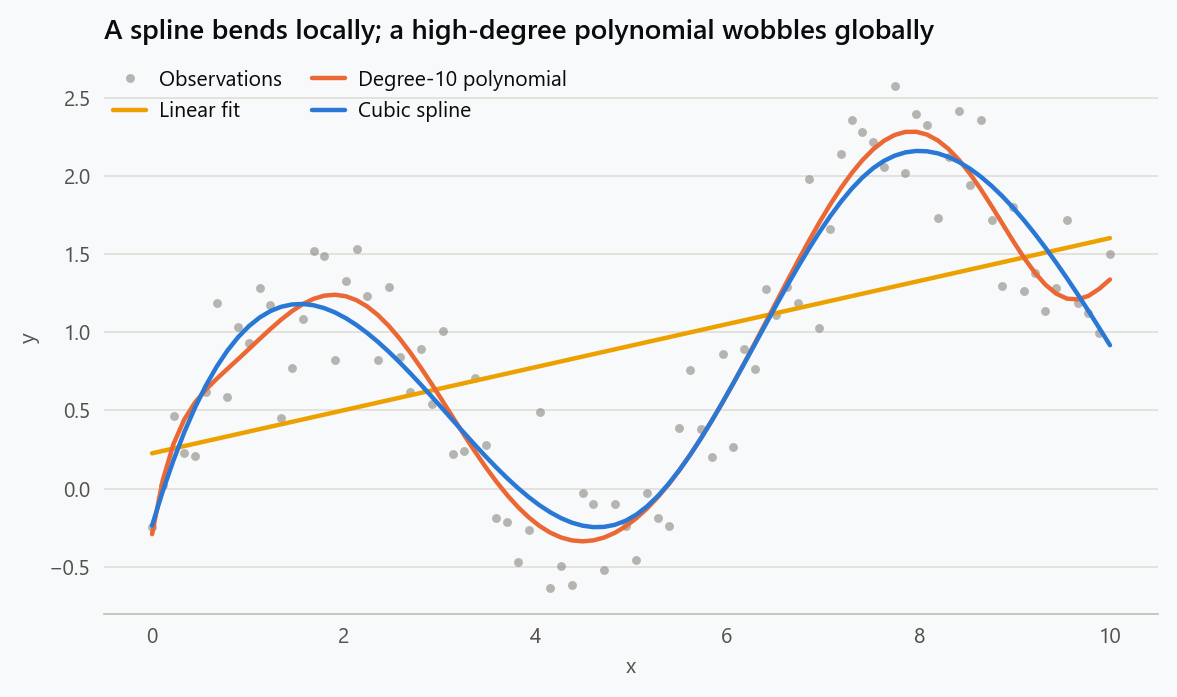
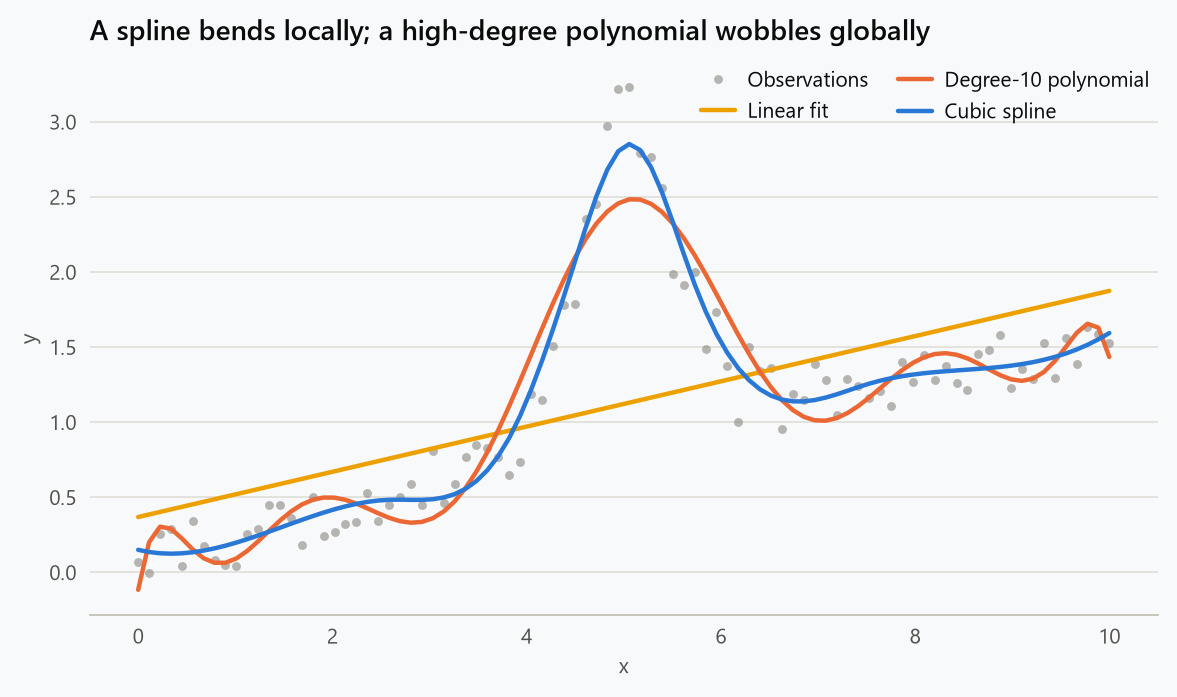
Splines: use data where the polynomial wobbles

diff --git a/_posts/data_science/2019-12-29-understanding_splines_what_they_how_they_used_data_analysis.md b/_posts/data_science/2019-12-29-understanding_splines_what_they_how_they_used_data_analysis.md
@@ -50,7 +50,7 @@ If you've ever dealt with data that doesn’t follow a simple straight line but 
 - **The different types of splines**
 - **Practical uses of splines in regression, smoothing, and machine learning**
 
-![A cubic spline, a degree-10 polynomial, and a straight line fitted to the same curved data. The polynomial oscillates near the edges while the spline follows the shape.](/assets/images/figures/splines_fit.png){: width="1177" height="697" loading="lazy"}
+![A cubic spline, a degree-10 polynomial, and a straight line fitted to the same noisy data, a sharp peak on a gentle upward trend. The polynomial falls short of the peak and oscillates across the flat stretches and near the edges, while the spline follows the shape.](/assets/images/figures/splines_fit.png){: width="1177" height="697" loading="lazy"}
 
 ## What Are Splines?
 
